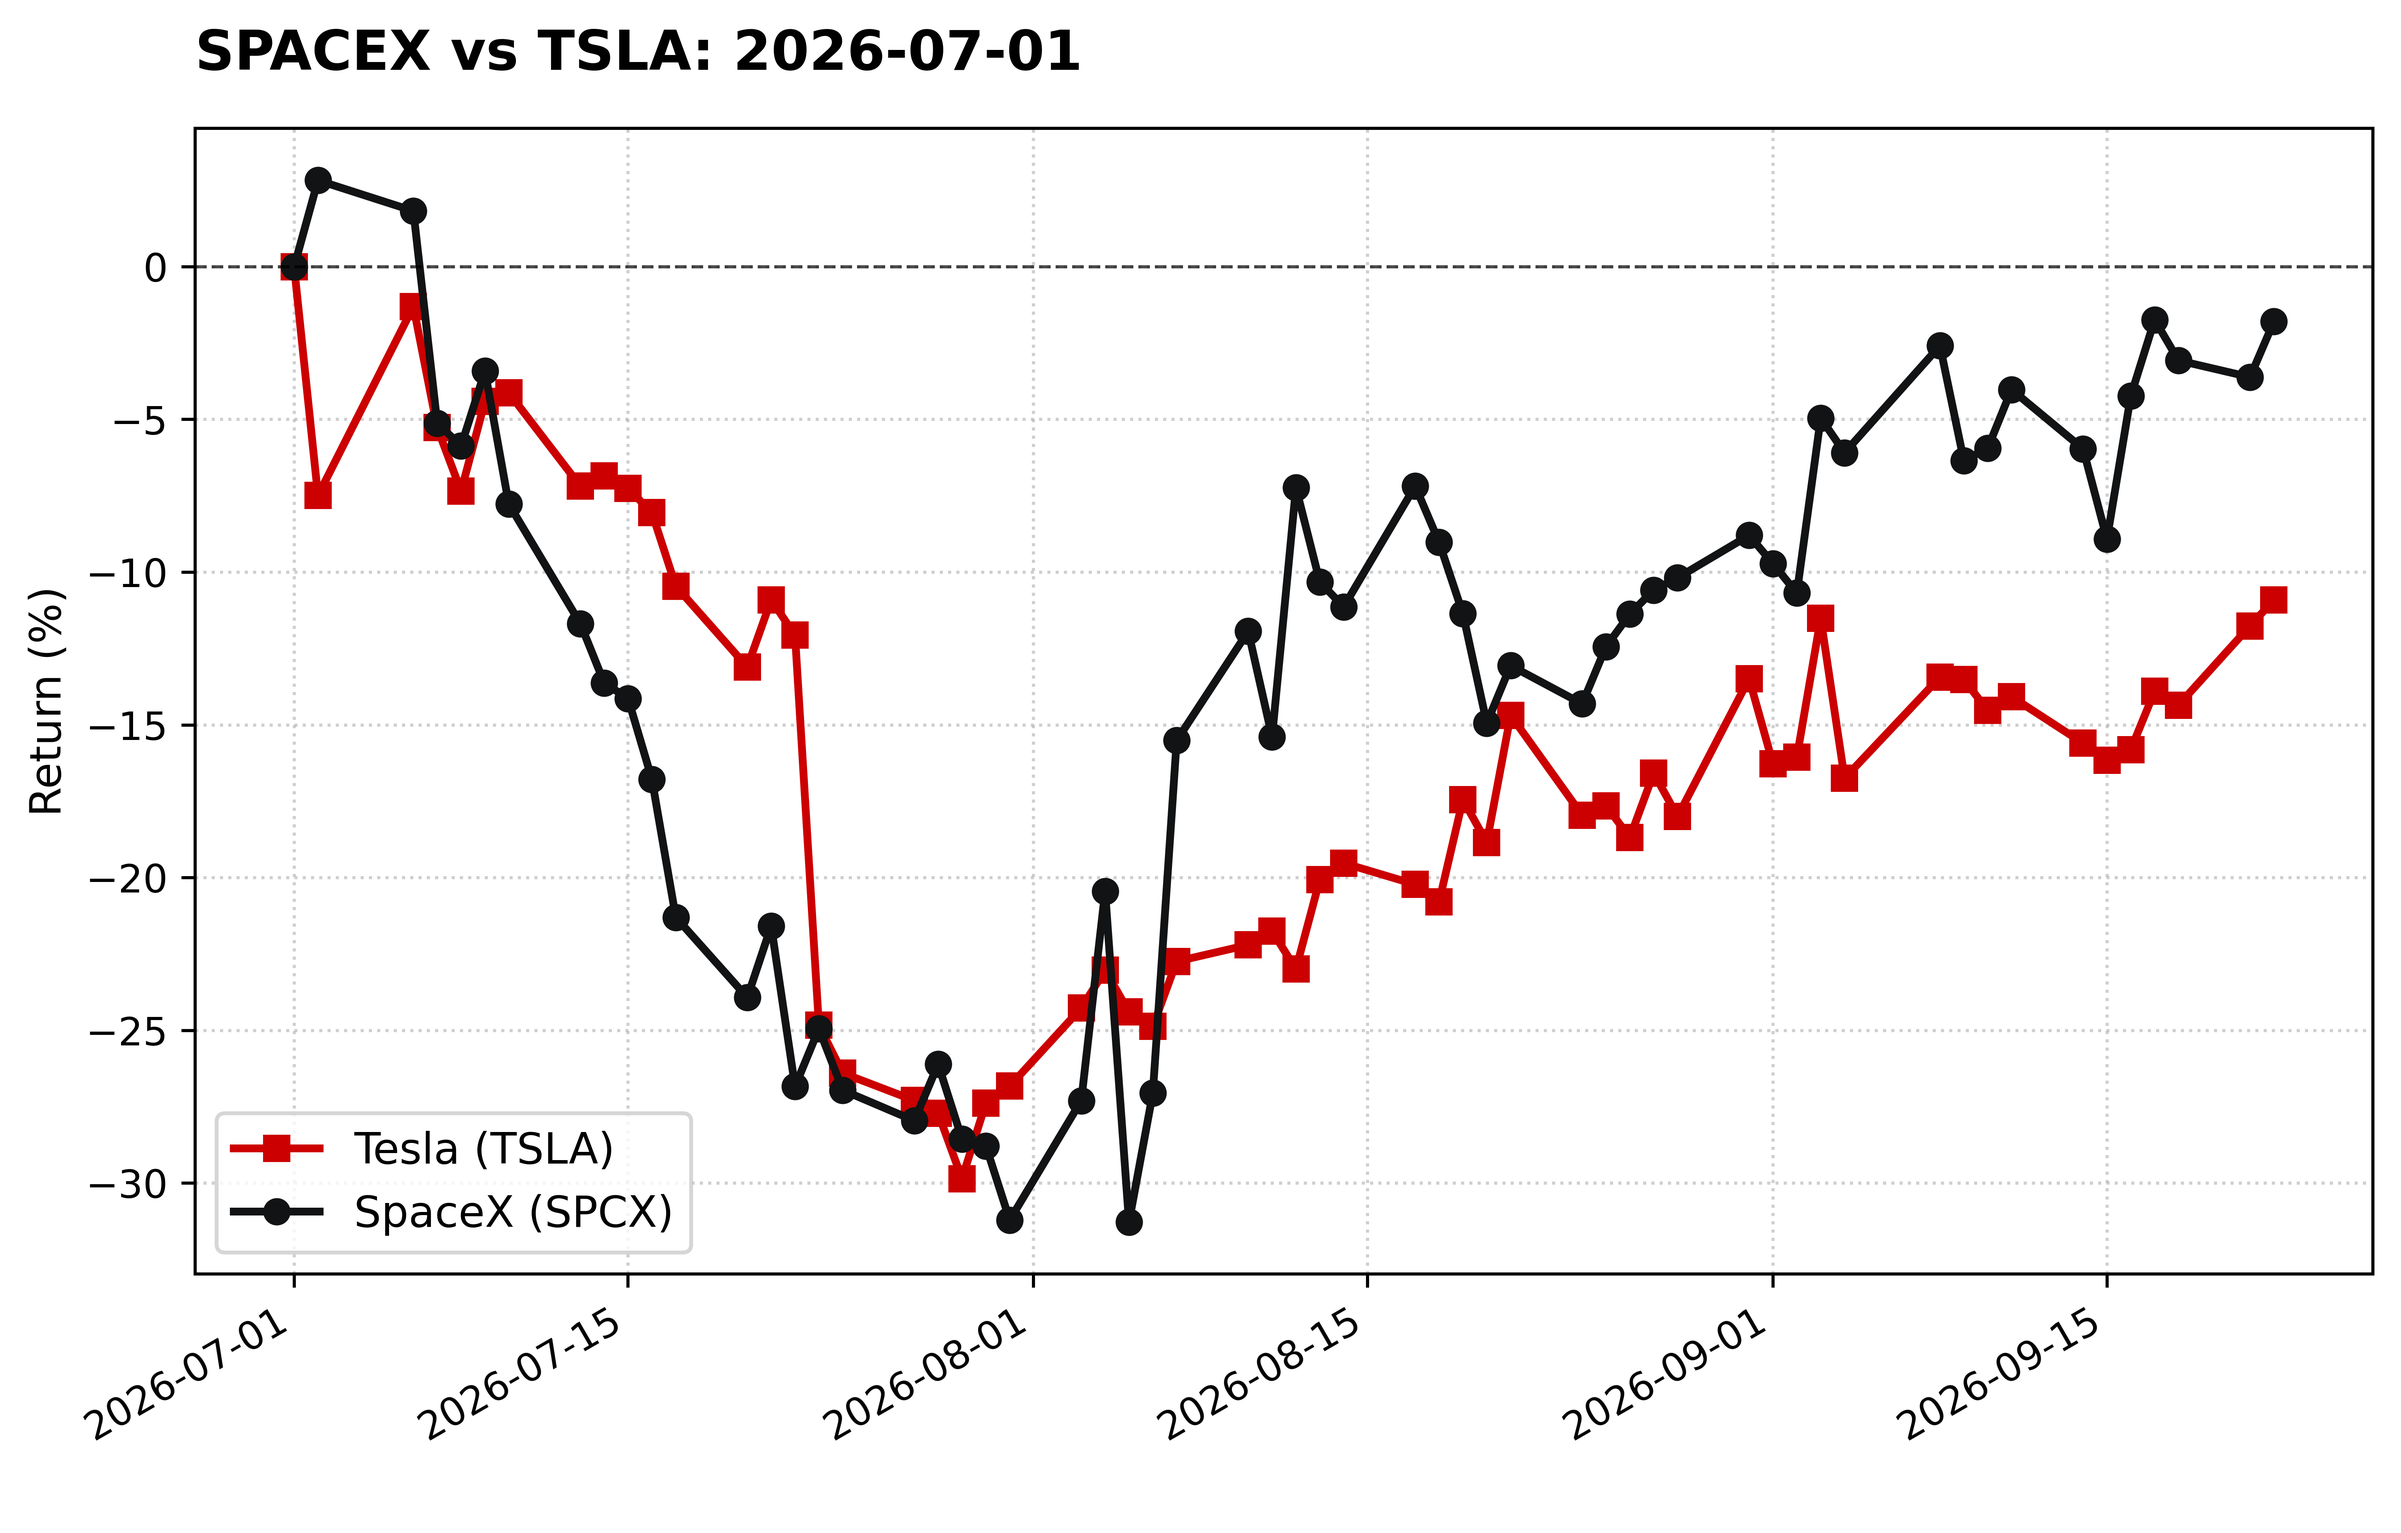
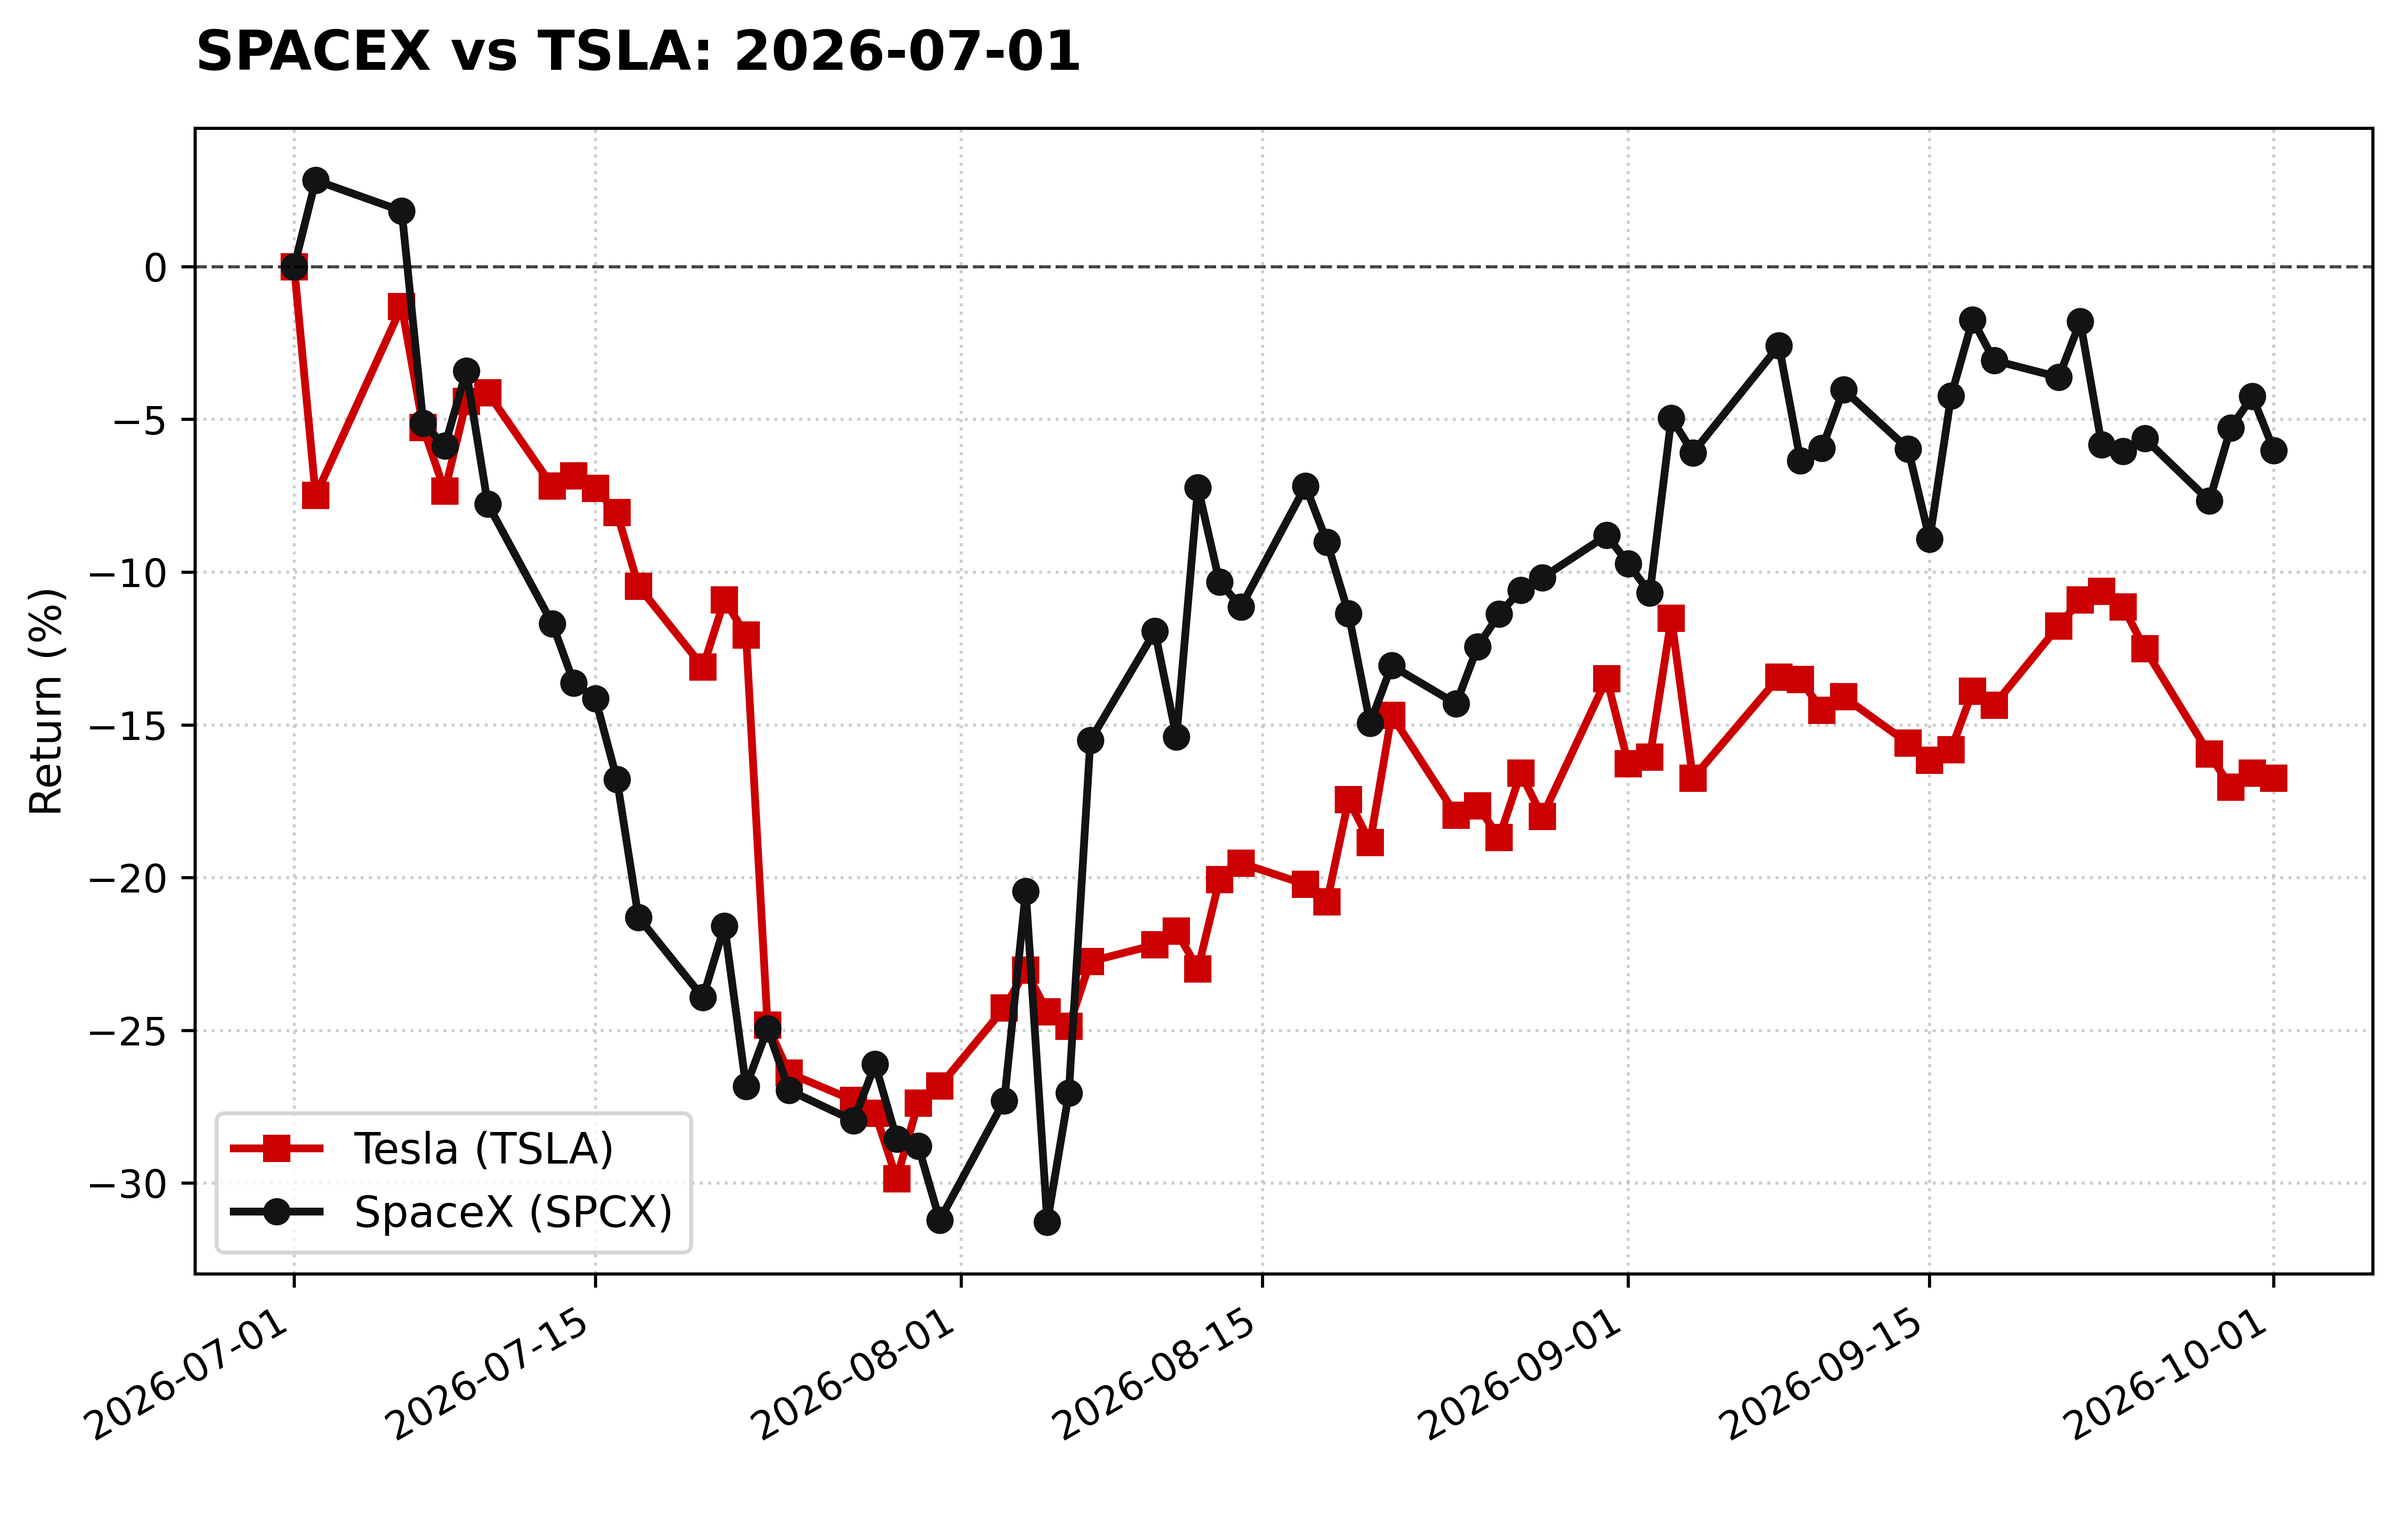
Initial commit

diff --git a/elongate.py b/elongate.py
@@ -5,7 +5,7 @@ import pandas as pd
 # 1. Define the tickers and the timeframe
 tickers = ["TSLA", "SPCX"]
 start_date = "2026-07-01"
-end_date = "2026-09-22"  # Requested inclusive end date
+end_date = "2026-10-01"  # Requested inclusive end date
 
 # yfinance treats the `end` parameter as exclusive. To include `end_date`
 # in the downloaded range, add one day to the end date.

diff --git a/spcx_tsla.py b/spcx_tsla.py
@@ -9,7 +9,7 @@ import yfinance as yf
 
 # Fetch data starting from June 22, 2026
 start_date = "2026-06-12"
-end_date = "2026-09-22"  # Requested inclusive end date 
+end_date = "2026-10-01"  # Requested inclusive end date 
 
 # yfinance treats the `end` parameter as exclusive. To include `end_date`,
 # add one day and use that as the `end` argument.
